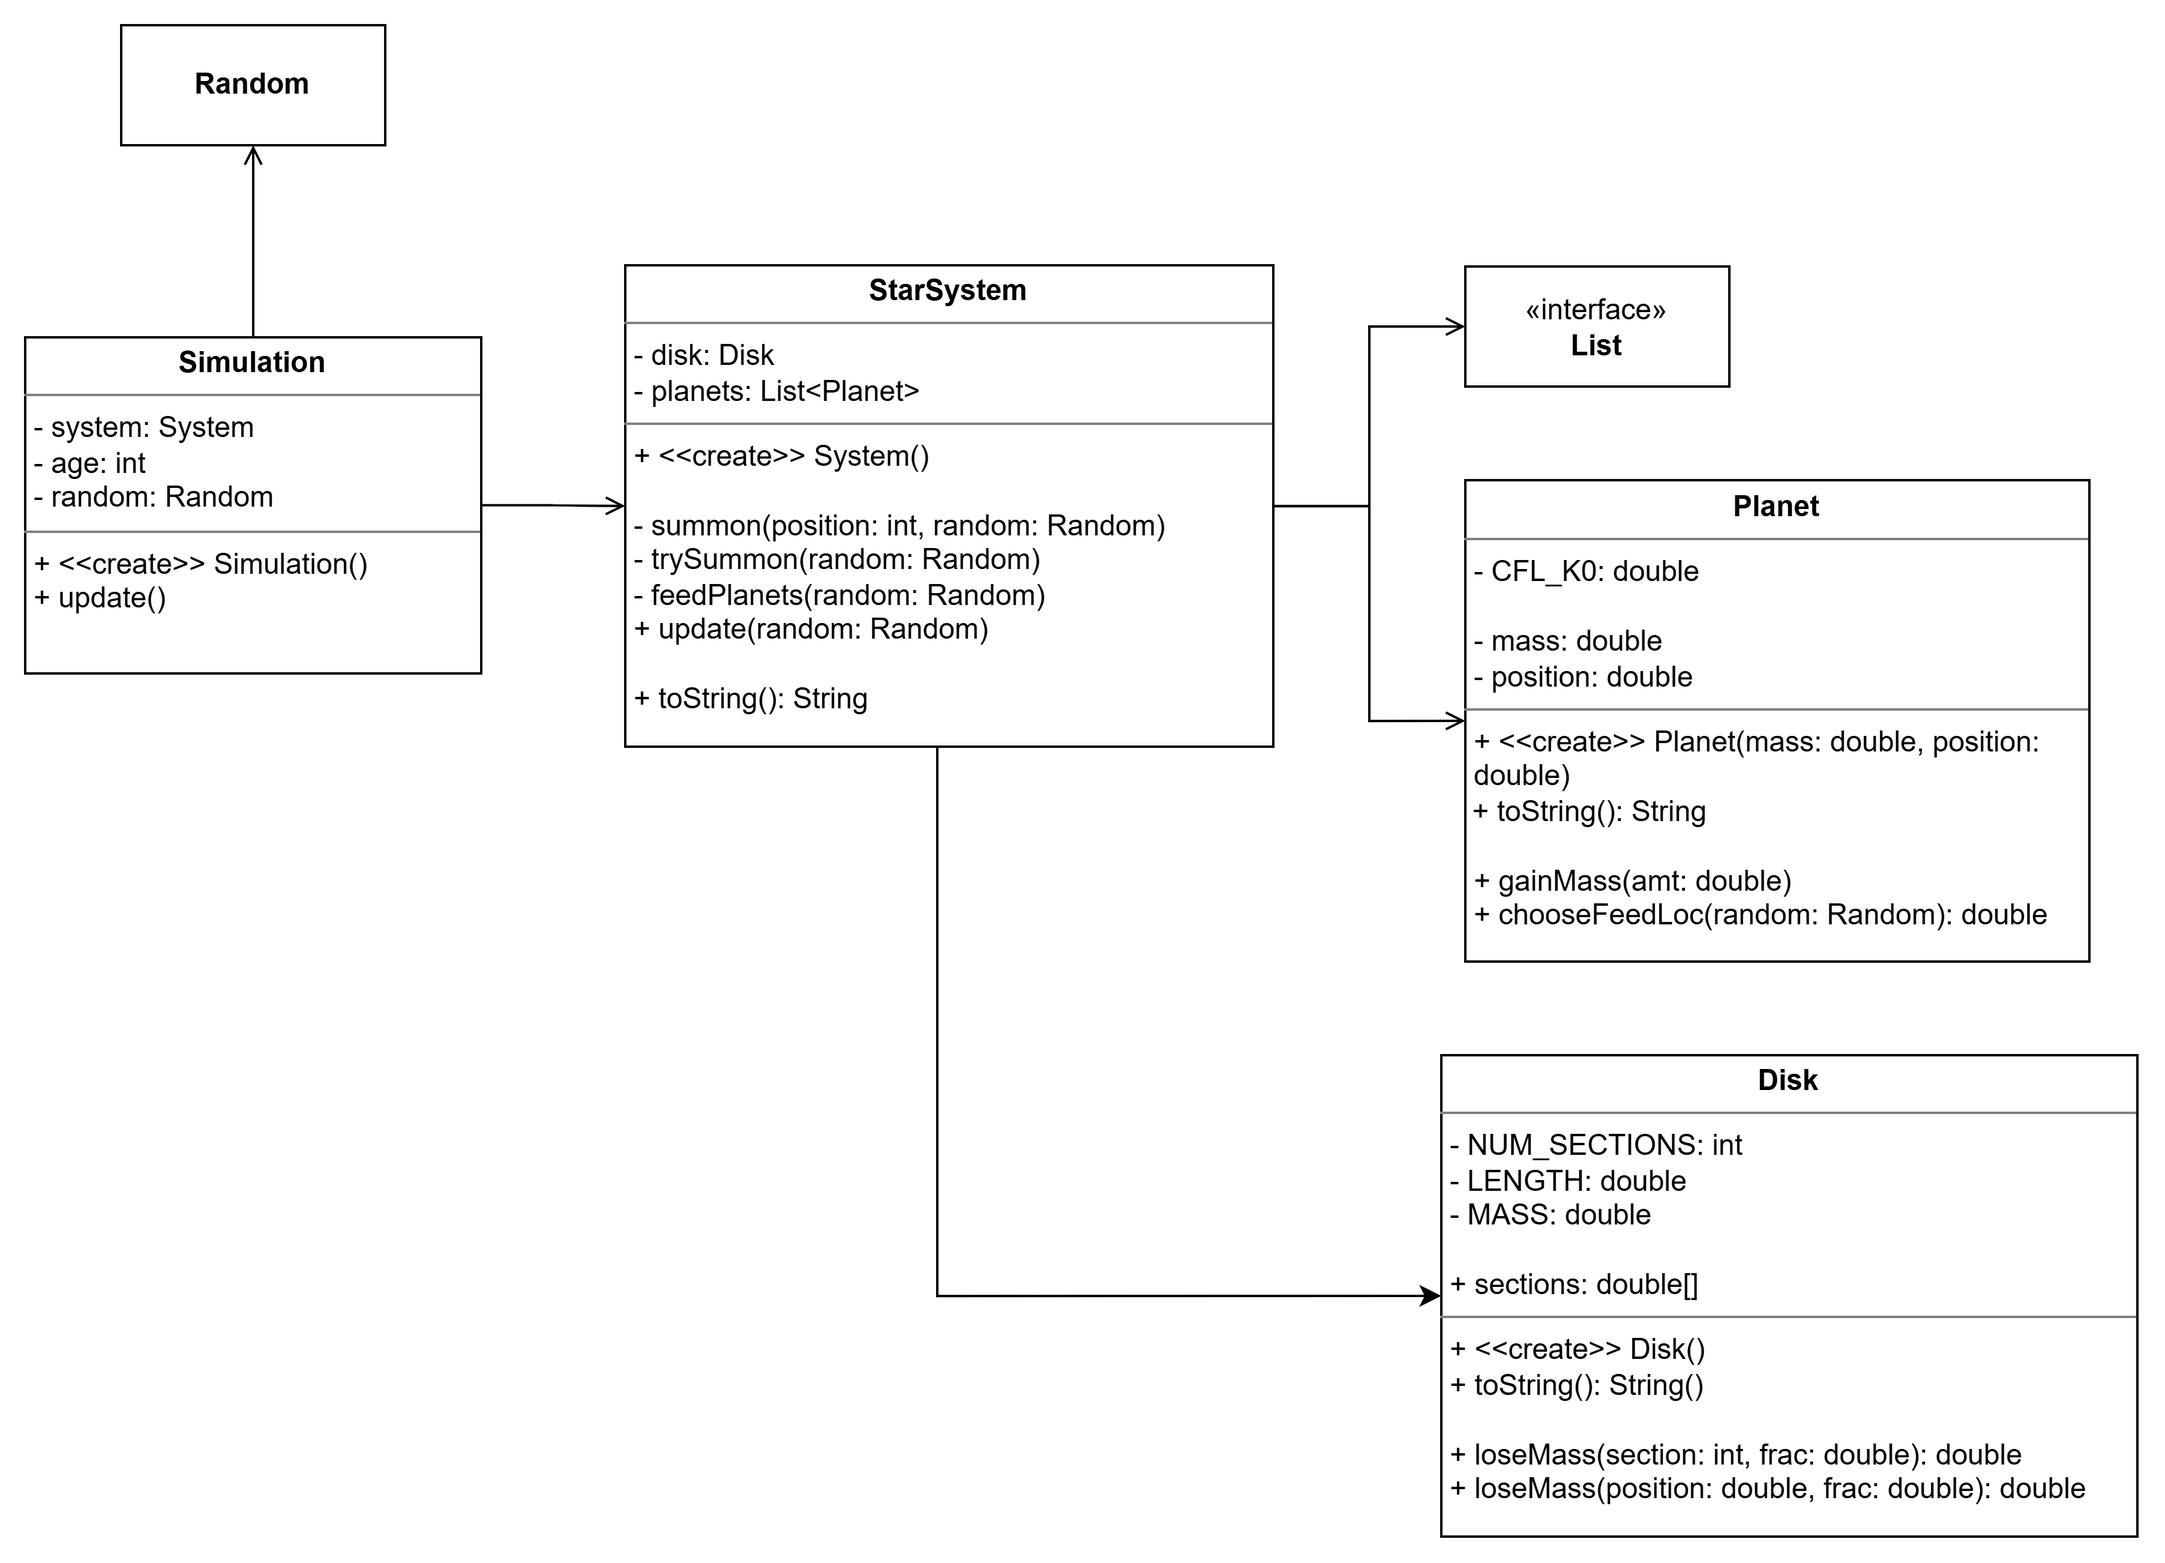
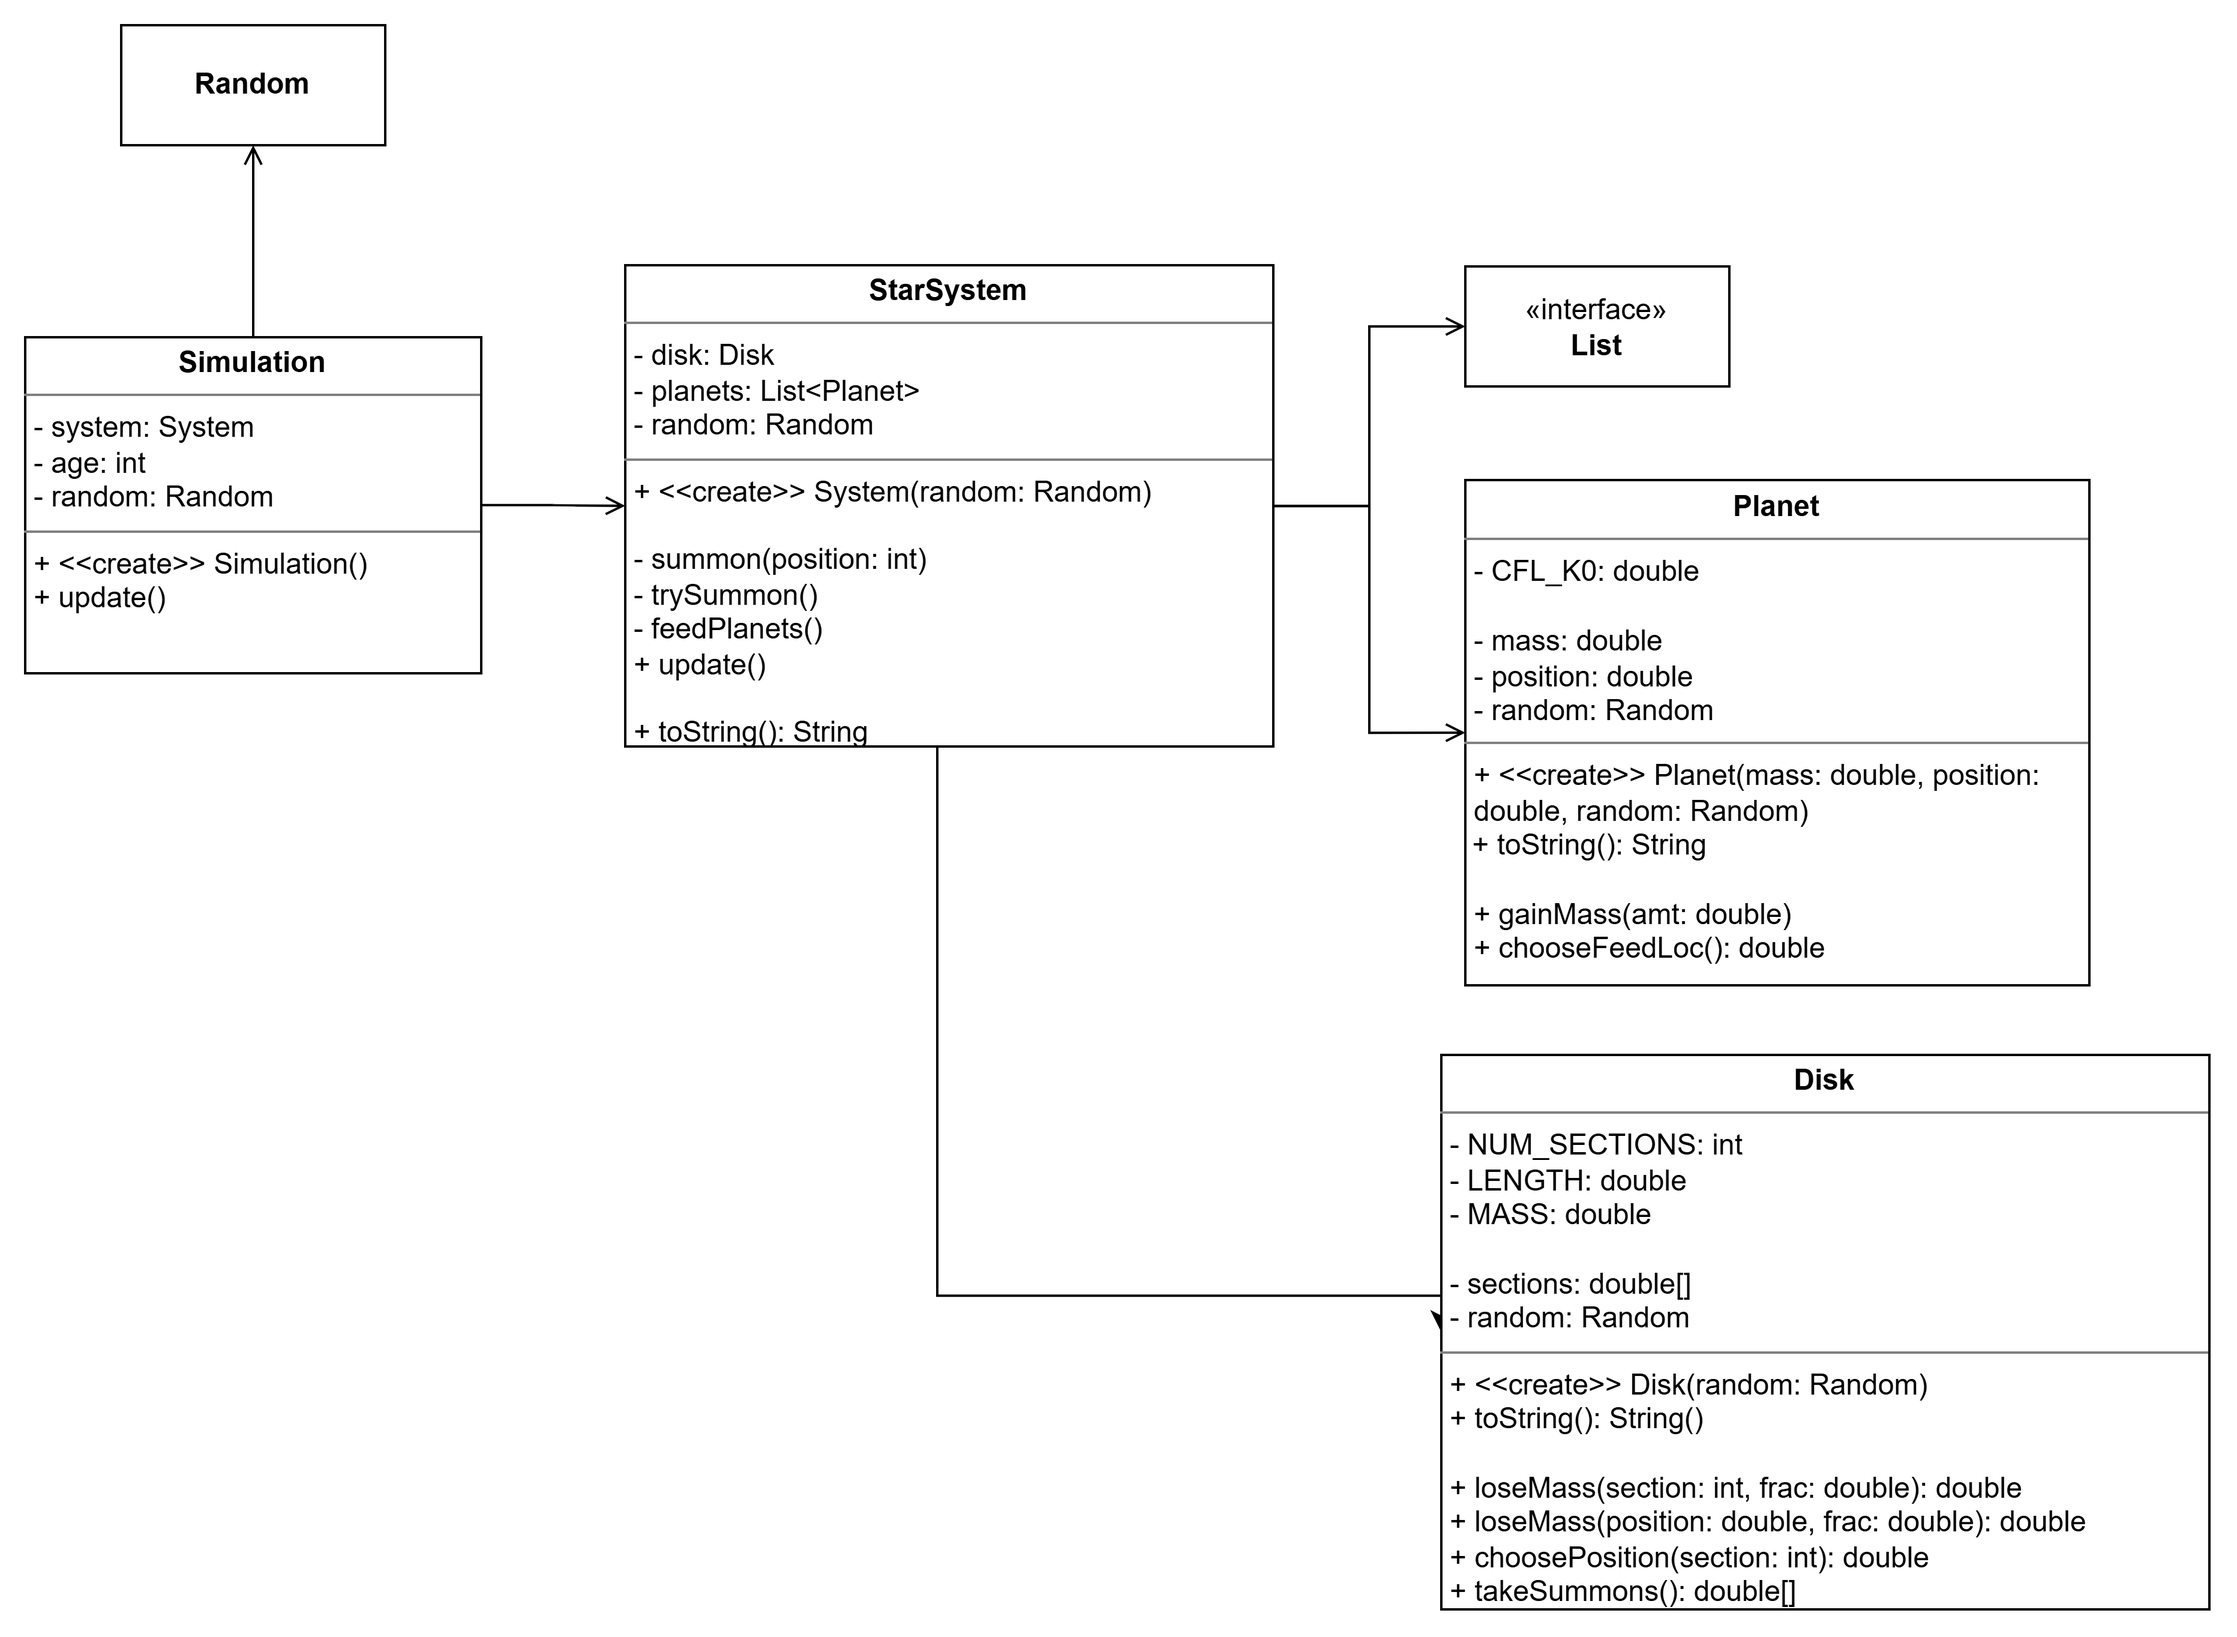
Preparing to refactor Random

diff --git a/docs/wiki/everything.md b/docs/wiki/everything.md
@@ -27,6 +27,7 @@ Star systems consist of a central star, a protoplanetary disk, and a
 variable number of planets. The elements making up this system are
 lined up in a single axis: the distance to the central star.
 
+### Protoplanetary Disk
 Over time, planets can form from material in the
 protoplanetary disk. Sections of the disk that have material are
 eligible to form a planet, and sections with more material will

diff --git a/docs/dashboard.md b/docs/dashboard.md
@@ -26,6 +26,16 @@ Next Steps
 
 		- [X] Replace star system disk
 
+- [ ] Designing (Refactor Random)
+
+	- [X] Wiki
+
+	- [X] UML
+
+	- [ ] Stubs
+
+	- [ ] Implement
+
 - [ ] Designing (Disc diffusion)
 
 	- [ ] Wiki
